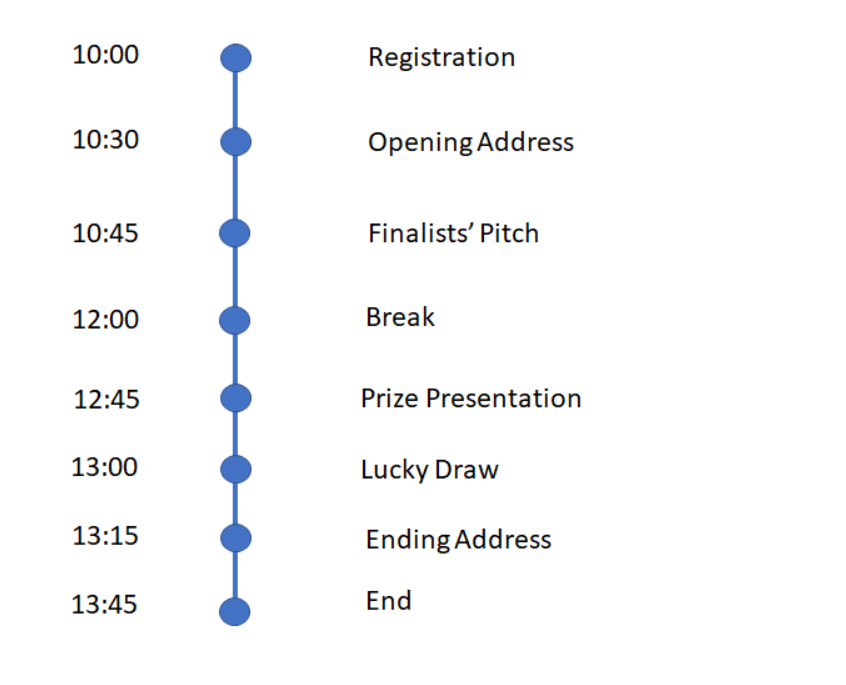
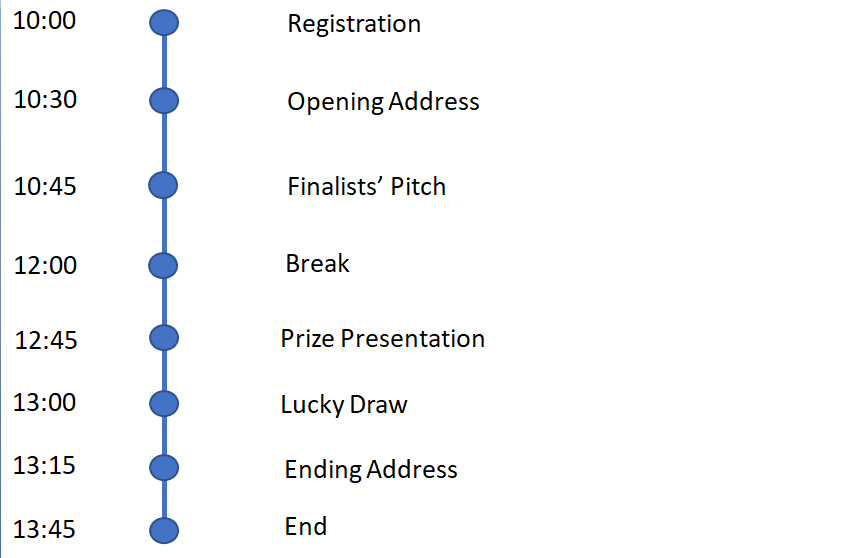
added noopener property to links in sponsor page and fixed abstracted bottombar from hackathonpage. fixed styling for bottombar. fixed hackathon timeline alignment

diff --git a/fintech-month/src/pages/home/HackathonPage.js b/fintech-month/src/pages/home/HackathonPage.js
@@ -1,5 +1,5 @@
 import React from 'react';
-import { Typography, Toolbar, Button } from '@material-ui/core';
+import BottomBar from '../../components/BottomBar.js';
 import FMLogo from '../../images/FM_logo.png';
 import OpeningTimeline from '../../images/openingtimeline.png';
 import ClosingTimeline from '../../images/closingtimeline.png';
@@ -9,33 +9,20 @@ export default function Hackathon() {
     return (
         <>
             <div class='grad'>
-                <img className="top-logo" src={FMLogo} />
+                <img className="top-logo" src={FMLogo} alt='FMLogo'/>
                 <div className="headerAlignment">
                     <h1 className='FintechMonthHeader' >Hackathon</h1>
                 </div>
             </div>
+
             <div>
                 <h2 class='opening'>Opening Ceremony</h2>
                 <img class='image' src={OpeningTimeline} alt='OpeningTimeline' />
                 <h2 class='closing'>Closing Ceremony</h2>
                 <img class='image' src={ClosingTimeline} alt='ClosingTimeline' />
             </div>
-            <div class='reverse-grad'>
-                <Toolbar variant='dense'>
-                    <div class='empty'/>
-                    <img className="bottom-logo" src={FMLogo} />
-                    <Typography class='bottom-bar-text'>Hackathon</Typography>
-                    <div class='empty' />
-                    <div class='empty' />
-                    <div class='empty' />
-                    <Button 
-                    class='register-button' 
-                    href='https://tinyurl.com/y6bk3khb'
-                    target="_blank" 
-                    rel='noreferrer'>Register here!</Button>
-                    <div class='empty' />
-                </Toolbar>   
-            </div>
+
+            <BottomBar externalurl='https://tinyurl.com/y6bk3khb'/>
         </>
     );
 }

diff --git a/fintech-month/src/pages/home/HackathonPage.css b/fintech-month/src/pages/home/HackathonPage.css
@@ -9,53 +9,12 @@
     max-height: 100px;
 } 
 
-.bottom-logo {
-    display: flex;
-    flex-grow: 1;
-    padding: 50px 50px 50px 50px;
-    height: auto; 
-    width: auto; 
-    max-width: 200px; 
-    max-height: 200px;
-} 
-
-.bottom-bar-text {
-    flex-grow: 1;
-    font-size: 50px;
-    color:white;
-    font-weight: bold;
-    justify-content: center;
-    align-items: center;
-    display:inline-block;
-    margin-top: 10px;
-}
-
 .image {
     display: flex;
     margin-left: auto;
     margin-right: auto;
     height: auto; 
     width: auto; 
-}
-
-.reverse-grad {
-    background-image: linear-gradient(#ffffff, 20%,#131d47);
-}
-
-.register-button {
-    cursor: pointer;
-    text-decoration: none;
-    font-size: 50px;
-    color:#FD8329;
-    font-weight: bold;
-    padding: 15px;
-    flex-grow: 1;
-    background-image: linear-gradient(#131d47, 80%, #ffffff);
-    text-align: center;
-}
-
-.register-button:hover {
-    color: #ffffff;
 }
 
 .empty {

diff --git a/fintech-month/src/components/BottomBar.css b/fintech-month/src/components/BottomBar.css
@@ -1,0 +1,45 @@
+.bottom-bar {
+    display: flex;
+    justify-content: space-between;
+    height: 25vh;
+    width: 100%;
+    background-image: linear-gradient(#fff,30%,#131d47);
+    align-items: center;
+}
+
+.bottom-logo {
+    display: inline-block;
+    flex: 1;
+    padding: 0 5% 0 5%;
+    height: auto; 
+    width: 10vw; 
+    max-width: 20vh; 
+    max-height: 20vh;
+} 
+
+.bottom-bar-text {
+    display: inline-block;
+    flex: 1;
+    font-size: 3vw;
+    color:white;
+    font-weight: bold;
+}
+
+.register-button {
+    margin: 0 10% 0 10%;
+    display: inline-flexbox;
+    cursor: pointer;
+    text-decoration: none;
+    font-size: 2.5vw;
+    color:#FD8329;
+    font-weight: bold;
+    padding: 1%;
+    flex: 1;
+    background-image: linear-gradient(#131d47, 80%, #fff);
+    text-align: center;
+    max-width: 20%;
+}
+
+.register-button:hover {
+    color: #ffffff;
+}

diff --git a/fintech-month/src/pages/sponsors/Genping.js b/fintech-month/src/pages/sponsors/Genping.js
@@ -5,13 +5,13 @@ import GenpingPhoto from '../../images/genpingphoto.jpg';
 import './SponsorsPage.css';
 
 function Genping() {
-    const link = <a target="_blank" rel='noreferrer' href='https://www.vertexventures.sg/'>Vertex Ventures</a>
+    const link = <a target="_blank" rel='noreferrer noopener' href='https://www.vertexventures.sg/'>Vertex Ventures</a>
     return (
         <>
             <SideNav />
             <Grid class='main' justify='center'>
                 <h1>
-                    <a target="_blank" rel='noreferrer' href='https://www.linkedin.com/in/liugenping/'>
+                    <a target="_blank" rel='noreferrer noopener' href='https://www.linkedin.com/in/liugenping/'>
                         Mr Liu Genping
                     </a>
                 </h1>

diff --git a/fintech-month/src/pages/sponsors/RaiCapital.js b/fintech-month/src/pages/sponsors/RaiCapital.js
@@ -6,9 +6,9 @@ import './SponsorsPage.css';
 
 function RaiCapital() {
     
-    const seedlink = <a target='_blank' rel='noreferrer' href='https://brdge.tech/'>SeedIn</a>
-    const railink = <a target='_blank' rel='noreferrer' href='http://www.rai.capital/'>Rai Capital</a>
-    const pilonlink = <a target='_blank' rel='noreferrer' href='http://www.pilon.sg/'>Pilon Pte Ltd</a>
+    const seedlink = <a target='_blank' rel='noreferrer noopener' href='https://brdge.tech/'>SeedIn</a>
+    const railink = <a target='_blank' rel='noreferrer noopener' href='http://www.rai.capital/'>Rai Capital</a>
+    const pilonlink = <a target='_blank' rel='noreferrer noopener' href='http://www.pilon.sg/'>Pilon Pte Ltd</a>
     return (
         <>
             <SideNav />

diff --git a/fintech-month/src/pages/sponsors/BNPP.js b/fintech-month/src/pages/sponsors/BNPP.js
@@ -8,7 +8,7 @@ function FundedHere() {
     const link = 
         <a 
         target="_blank" 
-        rel='noreferrer' 
+        rel='noreferrer noopener' 
         href='https://www.bnpparibas.com.sg/en/'>
             BNP Paribas
         </a>
@@ -17,7 +17,7 @@ function FundedHere() {
             <SideNav />
             <Grid class='main' justify='center'>
                 <h1>
-                    <a target="_blank" rel='noreferrer' href='https://www.linkedin.com/in/kok-wai-hon-3269632b/'>
+                    <a target="_blank" rel='noreferrer noopener' href='https://www.linkedin.com/in/kok-wai-hon-3269632b/'>
                         Mr Hon Kok Wai
                     </a>
                 </h1>

diff --git a/fintech-month/src/components/BottomBar.js b/fintech-month/src/components/BottomBar.js
@@ -1,0 +1,19 @@
+import React from 'react';
+import { Typography, Button } from '@material-ui/core';
+import FMLogo from '../images/FM_logo.png';
+import './BottomBar.css';
+
+export default function Bottombar({ externalurl }) {
+    return (
+        <div class='bottom-bar'>
+            <img className="bottom-logo" src={FMLogo} alt='FMLogo' />
+            <Typography class='bottom-bar-text'>Hackathon</Typography>
+            <Button
+                class='register-button'
+                href={externalurl}
+                target="_blank" rel='noreferrer noopener'>
+                Register here!
+            </Button>
+        </div>
+    );
+}

diff --git a/fintech-month/src/pages/sponsors/Stanley.js b/fintech-month/src/pages/sponsors/Stanley.js
@@ -10,7 +10,7 @@ function Stanley() {
             <SideNav />
             <Grid class='main' justify='center'>
                 <h1>
-                    <a target="_blank" rel="noreferrer" href='https://www.linkedin.com/in/stanley-kok-7226136/'>
+                    <a target="_blank" rel="noreferrer noopener" href='https://www.linkedin.com/in/stanley-kok-7226136/'>
                         Prof Stanley Kok
                     </a>
                 </h1>

diff --git a/fintech-month/src/pages/sponsors/FundedHere.js b/fintech-month/src/pages/sponsors/FundedHere.js
@@ -5,7 +5,7 @@ import DanielPhoto from '../../images/danielphoto.jpg';
 import './SponsorsPage.css';
 
 function FundedHere() {
-    const link = <a target="_blank" rel='noreferrer' href='https://fundedhere.com/'>FundedHere</a>
+    const link = <a target="_blank" rel='noreferrer noopener' href='https://fundedhere.com/'>FundedHere</a>
     return (
         <>
             <SideNav />

diff --git a/fintech-month/src/pages/sponsors/SponsorsPage.css b/fintech-month/src/pages/sponsors/SponsorsPage.css
@@ -67,6 +67,7 @@
   .main h1 {
     color: white;
   }
+  
   .profile {
     display: flex;
     margin-left: auto;
